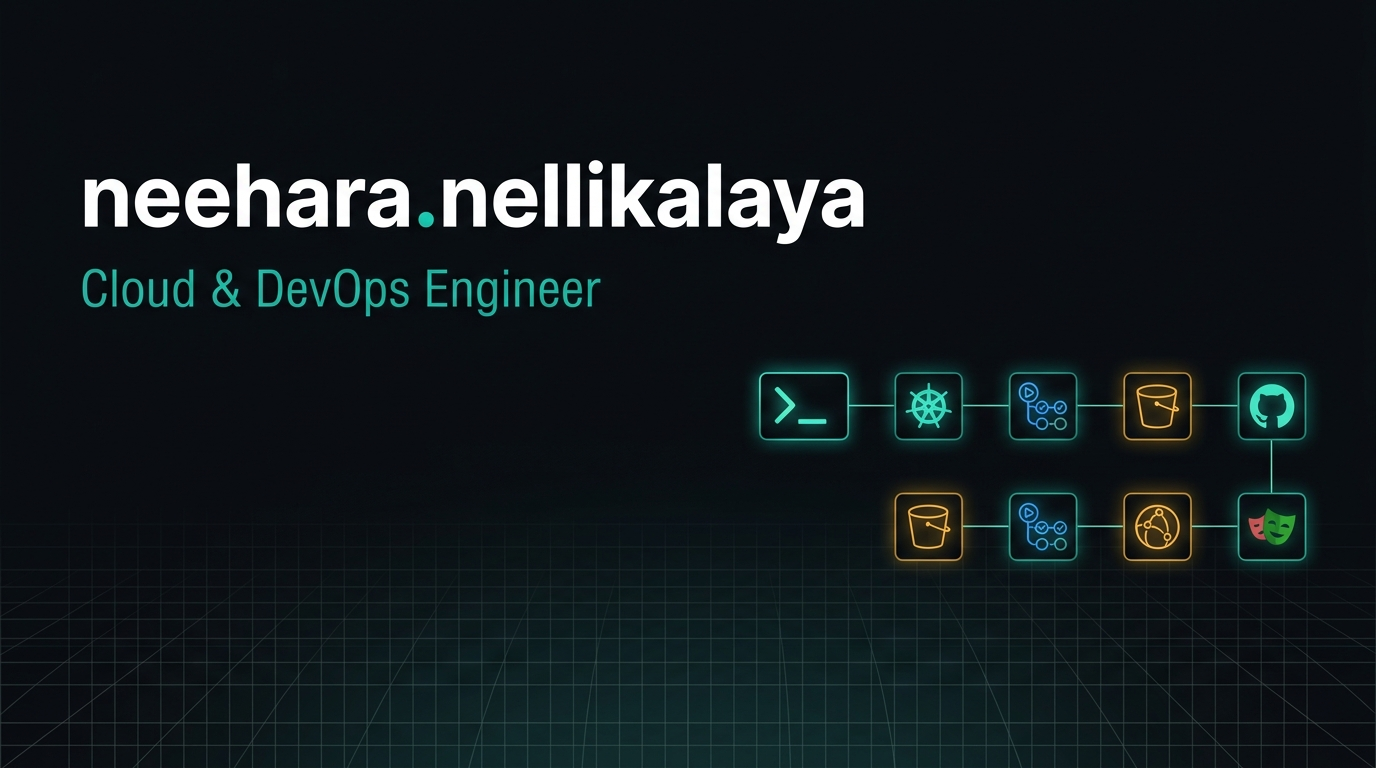
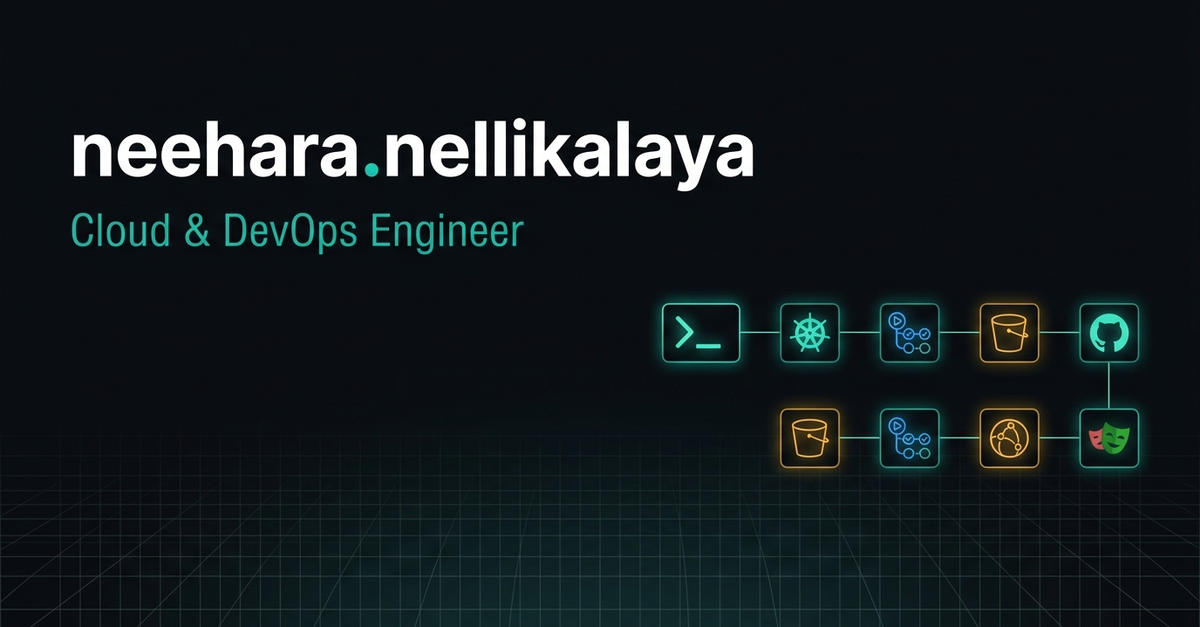
fix(seo): format valid 1200x627 PNG and JPEG og-image with full OpenGraph tags

diff --git a/index.html b/index.html
@@ -6,13 +6,25 @@
   <meta name="viewport" content="width=device-width, initial-scale=1.0" />
   <meta name="description"
     content="Cloud &amp; DevOps engineer — interactive portfolio featuring live Kubernetes, CI/CD and AWS sandboxes." />
-  <!-- Open Graph for LinkedIn Preview -->
+  <!-- Open Graph for LinkedIn / Social Previews -->
   <meta property="og:title" content="Neehara.dev — Cloud / DevOps Sandbox" />
   <meta property="og:description"
     content="Cloud &amp; DevOps engineer — interactive portfolio featuring live Kubernetes, CI/CD and AWS sandboxes." />
-  <meta property="og:image" content="https://neeharanellikalaya.pages.dev/og-image.png" />
+  <meta property="og:image" content="https://neeharanellikalaya.pages.dev/og-image.png?v=2" />
+  <meta property="og:image:secure_url" content="https://neeharanellikalaya.pages.dev/og-image.png?v=2" />
+  <meta property="og:image:type" content="image/png" />
+  <meta property="og:image:width" content="1200" />
+  <meta property="og:image:height" content="627" />
+  <meta property="og:image:alt" content="Neehara Nellikalaya — Cloud &amp; DevOps Sandbox Portfolio" />
   <meta property="og:url" content="https://neeharanellikalaya.pages.dev/" />
   <meta property="og:type" content="website" />
+
+  <!-- Twitter / X Card -->
+  <meta name="twitter:card" content="summary_large_image" />
+  <meta name="twitter:title" content="Neehara.dev — Cloud / DevOps Sandbox" />
+  <meta name="twitter:description"
+    content="Cloud &amp; DevOps engineer — interactive portfolio featuring live Kubernetes, CI/CD and AWS sandboxes." />
+  <meta name="twitter:image" content="https://neeharanellikalaya.pages.dev/og-image.png?v=2" />
   <meta name="author" content="Neehara Nellikalaya" />
   <meta name="theme-color" content="#080b10" />
   <title>Neehara Nellikalaya — Cloud / DevOps Sandbox</title>
